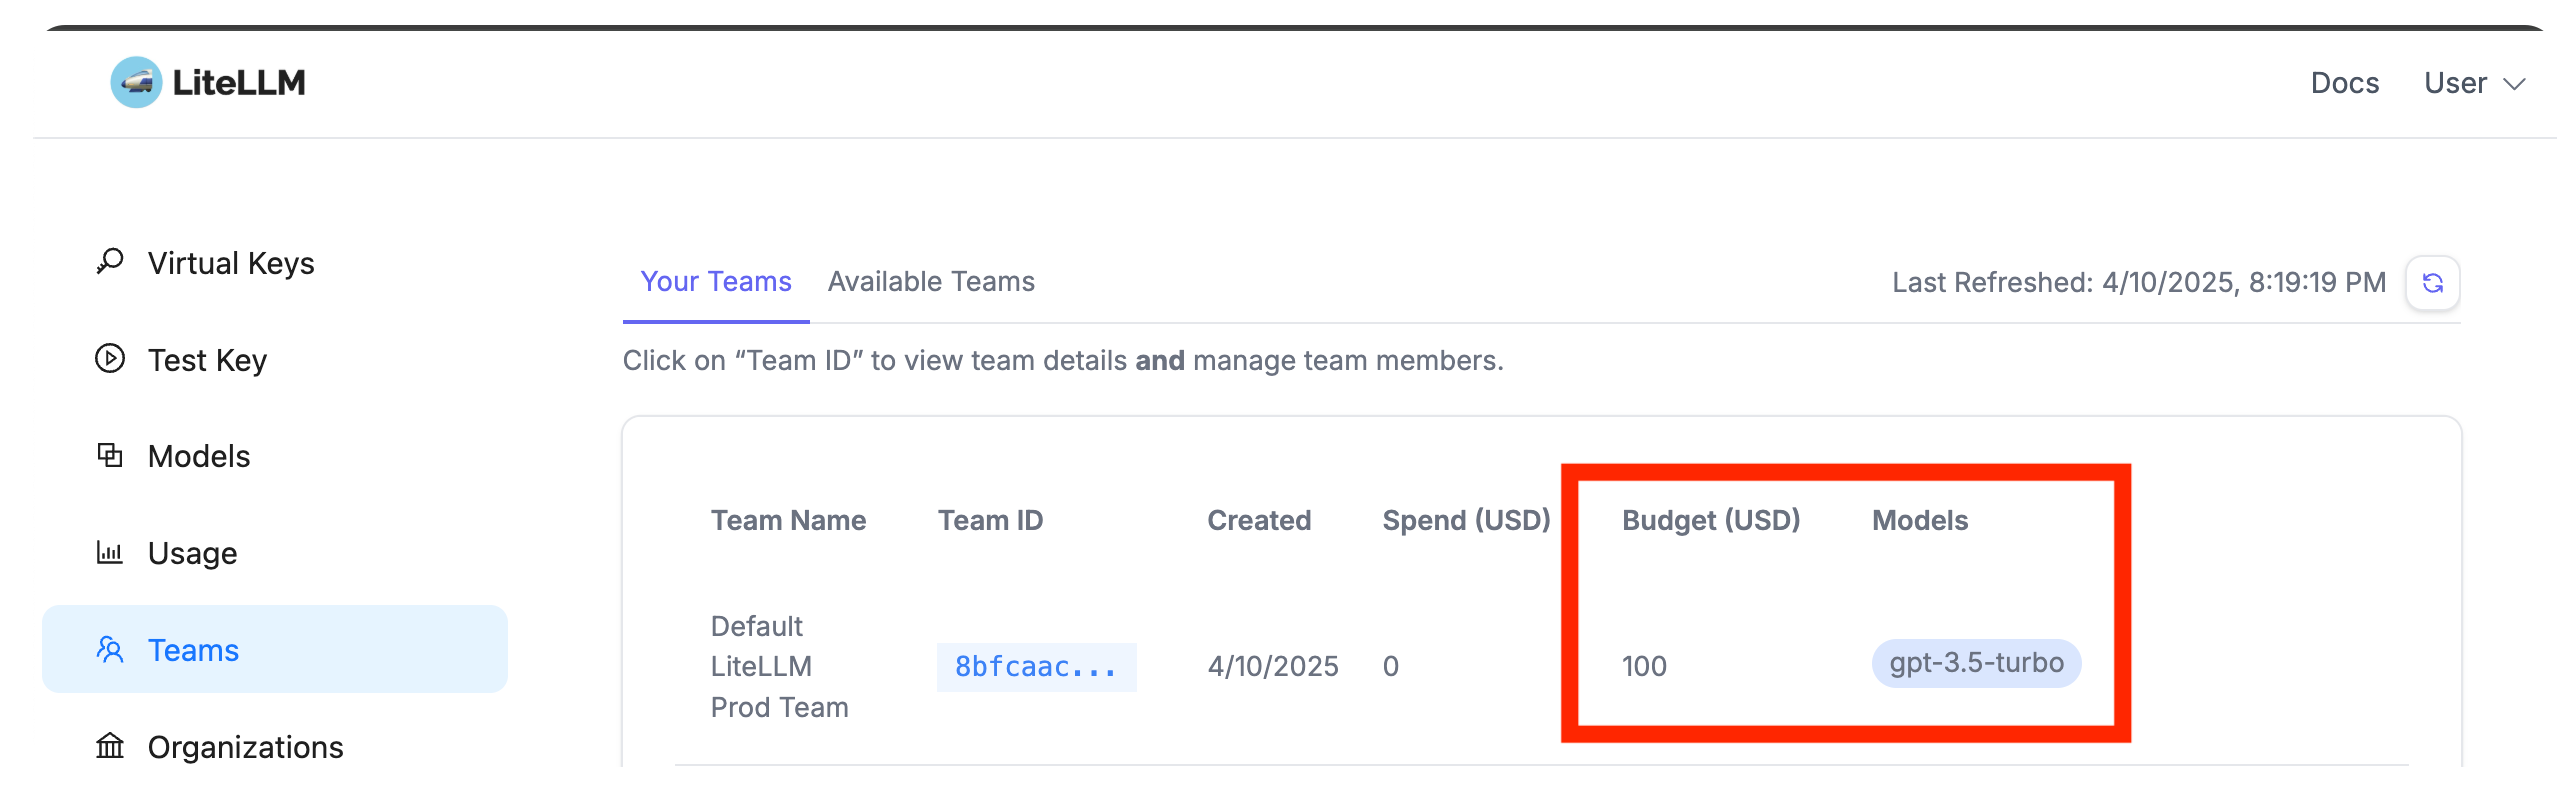
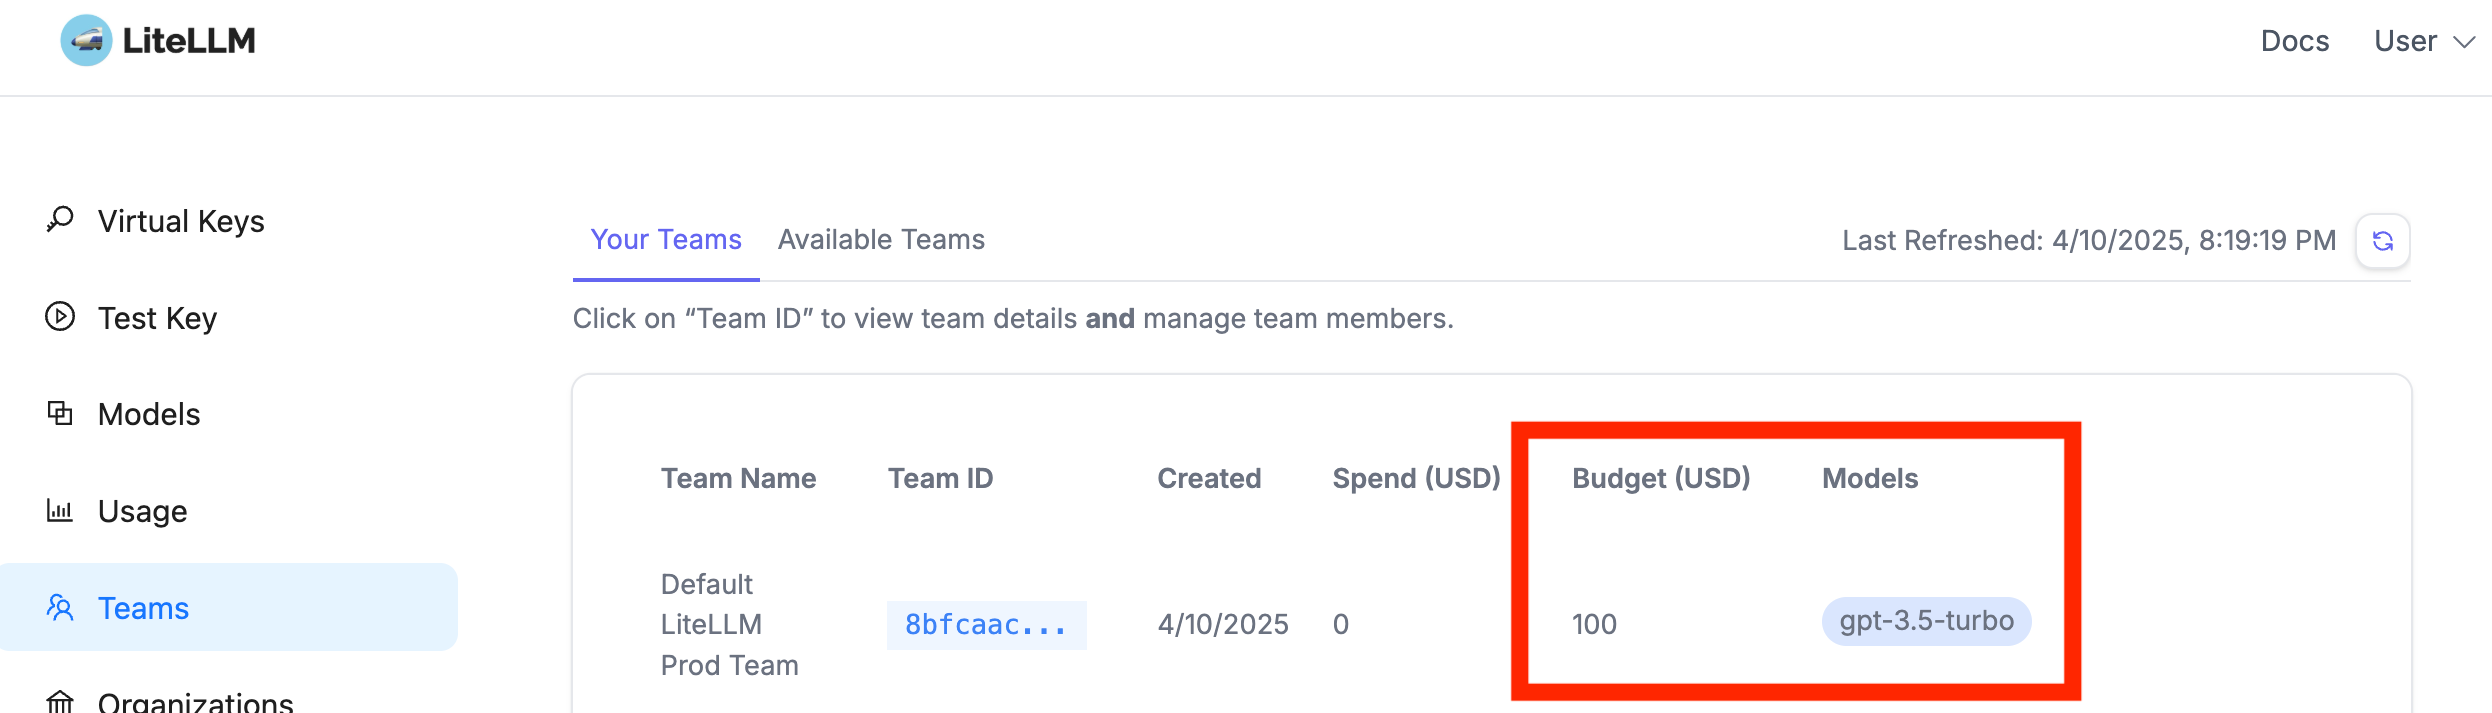
docs msft default team settings

diff --git a/docs/tutorials/msft_sso.md b/docs/tutorials/msft_sso.md
@@ -56,7 +56,7 @@ Sign into the LiteLLM UI via SSO. You should be redirected to the Entra ID SSO p
 
 On the LiteLLM UI, Navigate to `Teams`, You should see the new team `Production LLM Evals Group` auto-created on LiteLLM. 
 
-<Image img={require('../../img/msft_auto_team.png')}  style={{ width: '1050px', height: 'auto' }} />
+<Image img={require('../../img/msft_auto_team.png')}  style={{ width: '1000px', height: 'auto' }} />
 
 #### How this works
 
@@ -129,7 +129,7 @@ litellm_settings:
 - Navigate to `Teams` and you should see the new team `Default LiteLLM Prod Team` auto-created on LiteLLM
 - Note LiteLLM will set the default params for this new team. 
 
-<Image img={require('../../img/msft_default_settings.png')}  style={{ width: '800px', height: 'auto' }} />
+<Image img={require('../../img/msft_default_settings.png')}  style={{ width: '1000', height: 'auto' }} />
 
 
 
